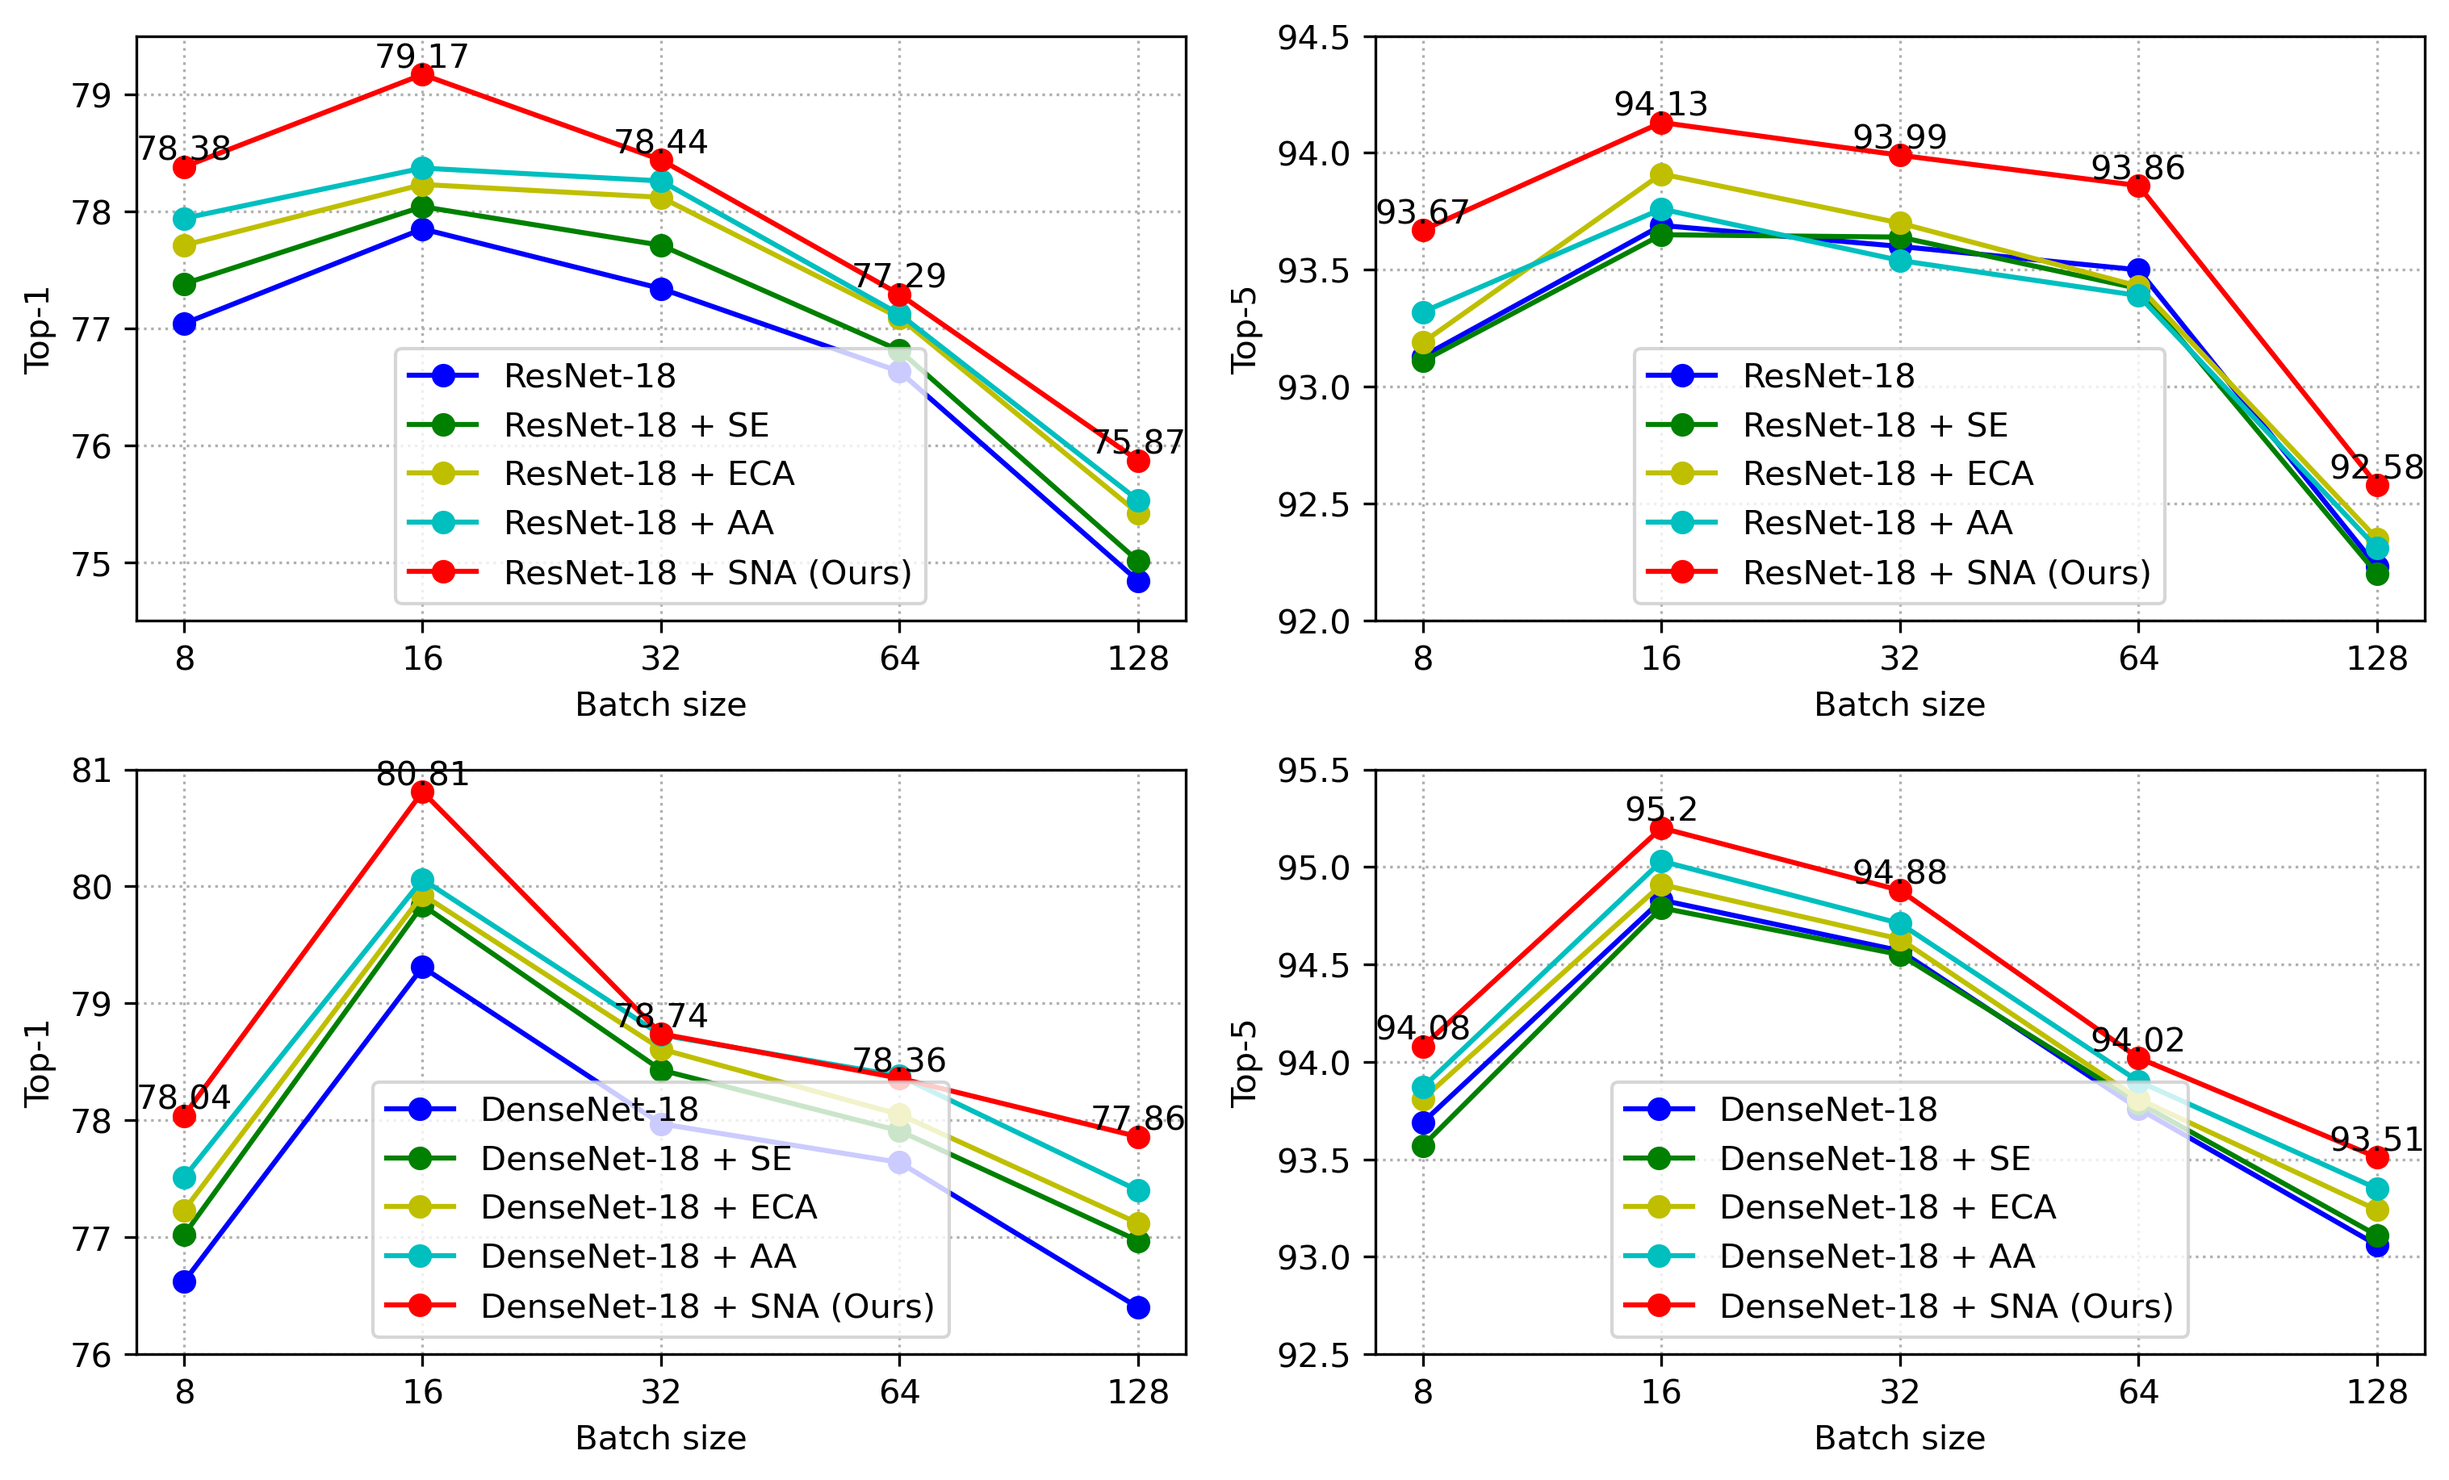
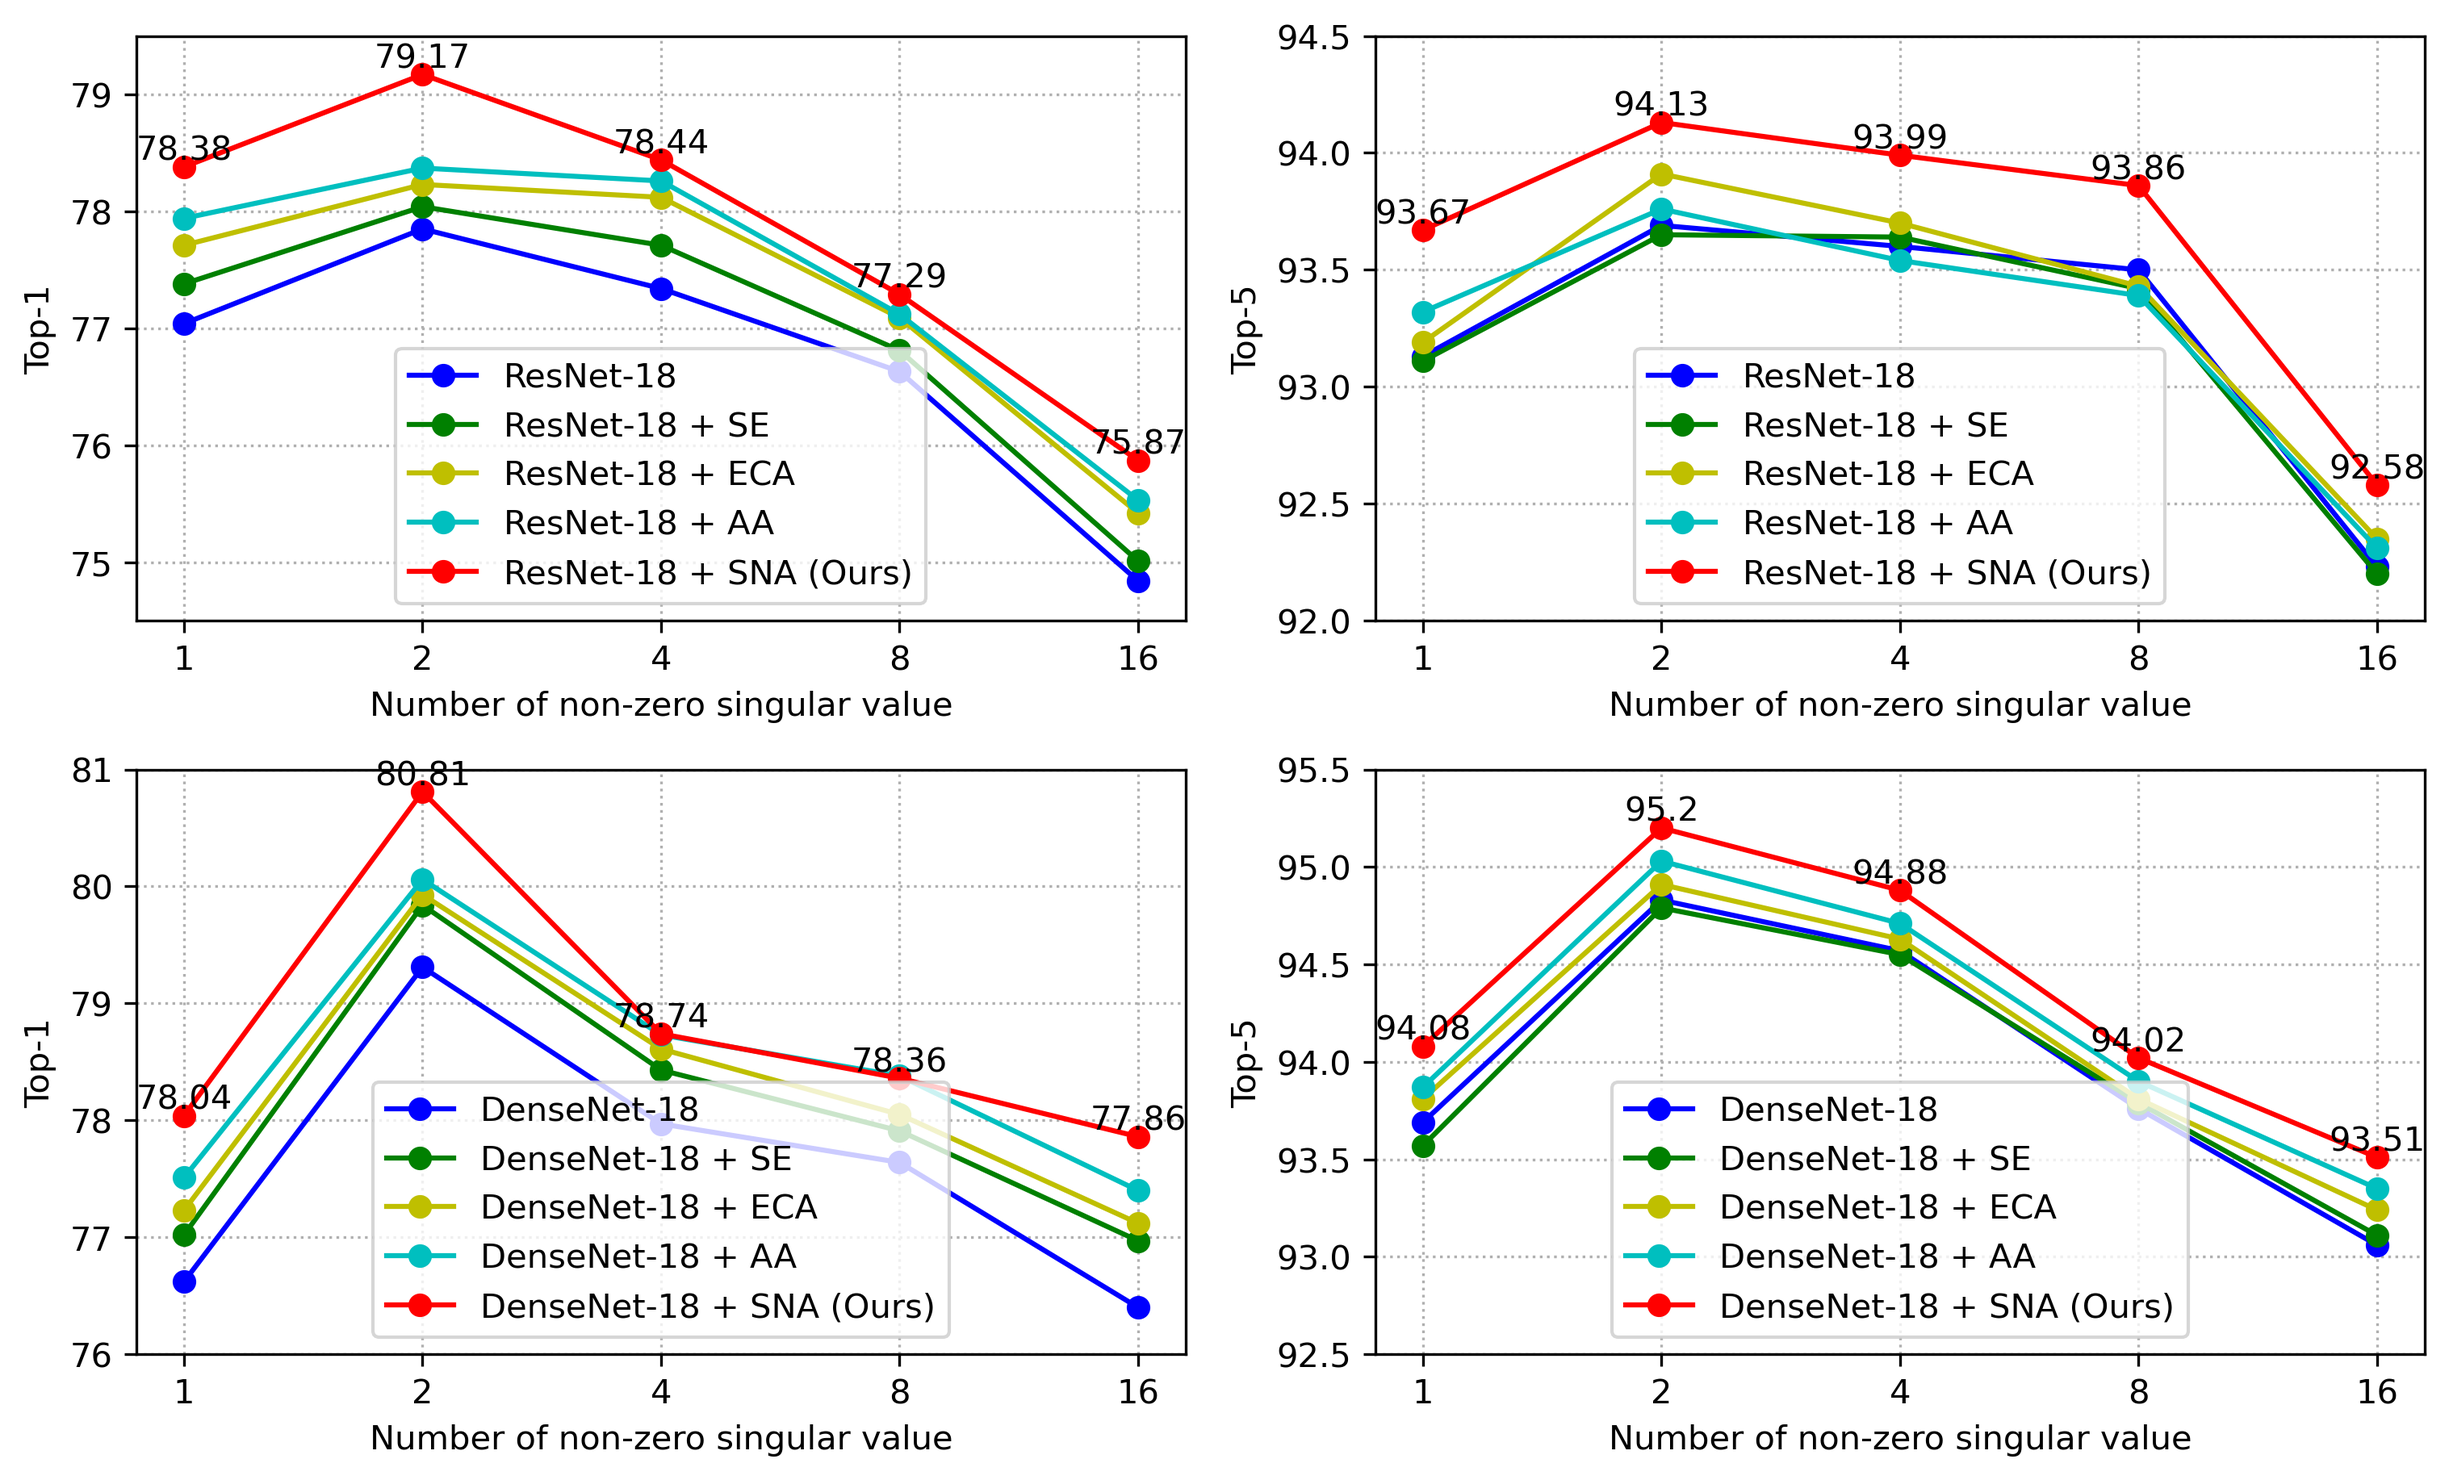
0531

diff --git a/utils/cifar_batch.py b/utils/cifar_batch.py
@@ -131,7 +131,8 @@ def vis_batch_performance():
 
 def vis_batch_performance2():
     
-    x_ticks = ['8', '16', '32', '64', '128'] #x_axies
+    #x_ticks = ['8', '16', '32', '64', '128'] #x_axies
+    x_ticks = ['1', '2', '4', '8', '16']
     x_axies = np.arange(len(x_ticks))
 
     #ResNet-top1
@@ -174,7 +175,7 @@ def vis_batch_performance2():
     axes[0,0].plot(x_axies, resnet_sna_top1,'ro-',label='ResNet-18 + SNA (Ours)')
     for a, b in zip(x_axies, resnet_sna_top1):
         axes[0,0].text(a, b, b, ha='center', va='bottom')
-    axes[0,0].set_xlabel('Batch size')
+    axes[0,0].set_xlabel('Number of non-zero singular value')
     axes[0,0].set_xticks(x_axies)
     axes[0,0].set_xticklabels(x_ticks)
     axes[0,0].set_ylabel('Top-1')
@@ -190,7 +191,7 @@ def vis_batch_performance2():
     axes[0,1].plot(x_axies, resnet_sna_top5,'ro-',label='ResNet-18 + SNA (Ours)')
     for a, b in zip(x_axies, resnet_sna_top5):
         axes[0,1].text(a, b, b, ha='center', va='bottom')
-    axes[0,1].set_xlabel('Batch size')
+    axes[0,1].set_xlabel('Number of non-zero singular value')
     axes[0,1].set_xticks(x_axies)
     axes[0,1].set_xticklabels(x_ticks)
     axes[0,1].set_ylabel('Top-5')
@@ -206,7 +207,7 @@ def vis_batch_performance2():
     axes[1,0].plot(x_axies, densenet_sna_top1,'ro-',label='DenseNet-18 + SNA (Ours)')
     for a, b in zip(x_axies, densenet_sna_top1):
         axes[1,0].text(a, b, b, ha='center', va='bottom')
-    axes[1,0].set_xlabel('Batch size')
+    axes[1,0].set_xlabel('Number of non-zero singular value')
     axes[1,0].set_xticks(x_axies)
     axes[1,0].set_xticklabels(x_ticks)
     axes[1,0].set_ylabel('Top-1')
@@ -222,7 +223,7 @@ def vis_batch_performance2():
     axes[1,1].plot(x_axies, densenet_sna_top5,'ro-',label='DenseNet-18 + SNA (Ours)')
     for a, b in zip(x_axies, densenet_sna_top5):
         axes[1,1].text(a, b, b, ha='center', va='bottom')
-    axes[1,1].set_xlabel('Batch size')
+    axes[1,1].set_xlabel('Number of non-zero singular value')
     axes[1,1].set_xticks(x_axies)
     axes[1,1].set_xticklabels(x_ticks)
     axes[1,1].set_ylabel('Top-5')
